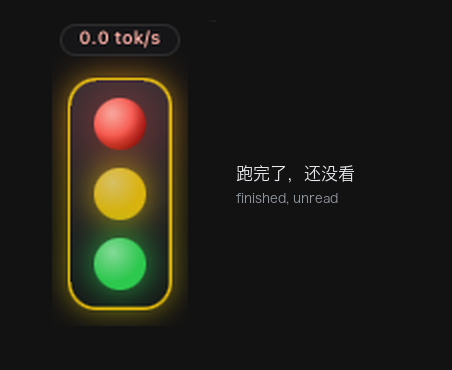
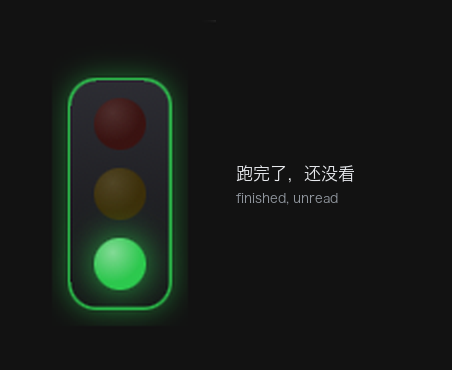
docs: four-state demo — unread is the green lamp alone
Drops the all-three-lit frame: "finished, unread" is one green lamp with
the housing glowing green, not every lamp at once. 256-colour palette keeps
the glow smooth.

Changed region(s): [[0.0929, 0.0595, 0.4336, 0.8622]]

diff --git a/docs/make-assets.py b/docs/make-assets.py
@@ -25,11 +25,10 @@ SIZE = (98, 166)
 
 # (screenshot, Chinese line, English line, hold in ms)
 STATES = [
-    ("s1.png", "没有任务在跑", "idle", 1300),
-    ("s2.png", "有会话在跑", "working", 1300),
-    ("s3.png", "有东西在等你", "waiting for you", 1500),
-    ("s5.png", "跑完了，还没看", "finished, unread", 1500),
-    ("s4.png", "灯亮到你打开它", "until you open it", 1600),
+    ("s1.png", "没有任务在跑", "idle", 1400),
+    ("s2.png", "有会话在跑", "working", 1400),
+    ("s3.png", "有东西在等你", "waiting for you", 1600),
+    ("s4.png", "跑完了，还没看", "finished, unread", 1800),
 ]
 
 CANVAS_W = 452
@@ -65,7 +64,7 @@ def make_gif():
     frames = [card(name, zh, en) for name, zh, en, _ in STATES]
     durations = [hold for _, _, _, hold in STATES]
     out = "docs/demo.gif"
-    pal = [f.quantize(colors=128, method=Image.Quantize.MEDIANCUT, dither=Image.Dither.NONE)
+    pal = [f.quantize(colors=256, method=Image.Quantize.MEDIANCUT, dither=Image.Dither.NONE)
            for f in frames]
     pal[0].save(out, save_all=True, append_images=pal[1:], duration=durations, loop=0,
                 optimize=True, disposal=2)
